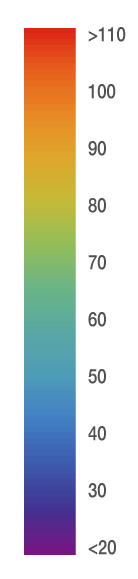
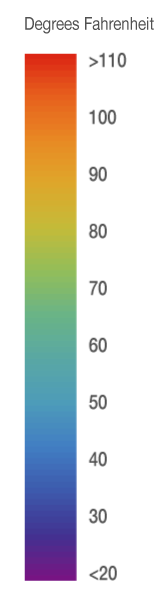
map legend images

Changed region(s): [[0.1449, 0.0, 0.9855, 0.9637], [0.5797, 0.4352, 0.7826, 0.4974], [0.5797, 0.9326, 0.8406, 0.9637]]

diff --git a/resources/css/mods.css b/resources/css/mods.css
@@ -107,7 +107,7 @@ input.location-mapper:focus:-ms-input-placeholder {
 
 .page-type-variables .legend-image {
   height:350px;
-  margin-left:-10px;
+  margin-left:-13px;
 }
 
 .page-type-variables .data-accordion-actions {
@@ -324,6 +324,22 @@ input.location-mapper:focus:-ms-input-placeholder {
 .page-type-location #location-search input {
   font-size:1.1em;
   width:100%;
+}
+
+.page-type-location .location-map-legend-container {
+  display: block;
+  position: absolute;
+  left: 20px;
+  bottom: 60px;
+  padding: 8px 5px 8px 8px;
+  z-index: 2;
+  background:#FFF;
+  color: #f5442d;
+}
+
+.page-type-location .location-map-legend-container .legend-image {
+  height: 275px;
+  margin-left: -9px;
 }
 
 .page-type-location .year {

diff --git a/resources/js/location.js b/resources/js/location.js
@@ -331,6 +331,7 @@ Location.prototype.wire = function() {
       self.updateTiledLayer('temperature-map', false);
     }
     $('#temperature-map-container .full-map-btn').prop({'href': 'variables.php?id='+id});
+    $('#temperature-map-container .location-map-legend').html('<img class="legend-image" src="resources/img/'+ id +'.png"></img>');
   });
 
   $('#precipitation-data h4').on('click', function() {

diff --git a/location.php b/location.php
@@ -6,9 +6,9 @@
   $fips = $_REQUEST['fips'];
   $lat = $_REQUEST['lat'];
   $lon = $_REQUEST['lon'];
-  
+
   include_once('functions.php');
-  
+
 ?>
 <!doctype html>
 <html>
@@ -27,14 +27,14 @@
 
     <script type="text/javascript" src="./resources/js/jquery.min.js"></script>
     <script src="//code.jquery.com/ui/1.11.4/jquery-ui.js"></script>
-    
+
     <?php
-      
+
       $share_data['url'] = current_URL();
       $share_data['title'] = 'Location data for ' . $city;
-      
+
       echo opengraph_output($share_data);
-      
+
     ?>
 
 </head>
@@ -306,6 +306,13 @@
                               <div class="year-label year-max">2090</div>
                             </div>
 
+                            <div class="location-map-legend-container">
+                              <h5>Legend</h5>
+                              <div class="location-map-legend">
+                                <img class="legend-image" src="resources/img/tasmax.png"></img>
+                              </div>
+                            </div>
+
                             <a href="variables.php?id=tasmax" class="full-map-btn button bg-white color-orange arrow-right">View full map</a>
                           </div>
                         </div>
@@ -520,6 +527,13 @@
                             <div class="year-label year-min">1950</div>
                             <div class="" id="precipitation-map-time-slider" data-min="1950" data-max="2090" data-value="2090"></div>
                             <div class="year-label year-max">2090</div>
+                          </div>
+
+                          <div class="location-map-legend-container" style="display:none">
+                            <h5>Legend</h5>
+                            <div class="location-map-legend">
+                              <img class="legend-image" src="resources/img/pr.png"></img>
+                            </div>
                           </div>
 
                           <a href="variables.php?id=pr" class="full-map-btn button bg-white color-orange arrow-right">View full map</a>
@@ -740,6 +754,13 @@
                               <div class="year-label year-max">2090</div>
                             </div>
 
+                            <div class="location-map-legend-container">
+                              <h5>Legend</h5>
+                              <div class="location-map-legend">
+                                <img class="legend-image" src="resources/img/heating_degree_day_18.3"></img>
+                              </div>
+                            </div>
+
                             <a href="variables.php?id=heating_degree_day_18.3" class="full-map-btn button bg-white color-orange arrow-right">View full map</a>
                           </div>
                         </div>
@@ -764,7 +785,7 @@
             </div>
           </div>
         </section>
-        
+
         <!-- end weather stations chart and map -->
 
         <?php /*

diff --git a/variables.php b/variables.php
@@ -82,8 +82,6 @@
       <div id="vars-legend" class="legend-wrap left-filler">
         <div class="legend">
           <h5>Legend</h5>
-          <h6>Degrees Fahrenheit</h6>
-
           <div id="legend-container"></div>
         </div>
 
